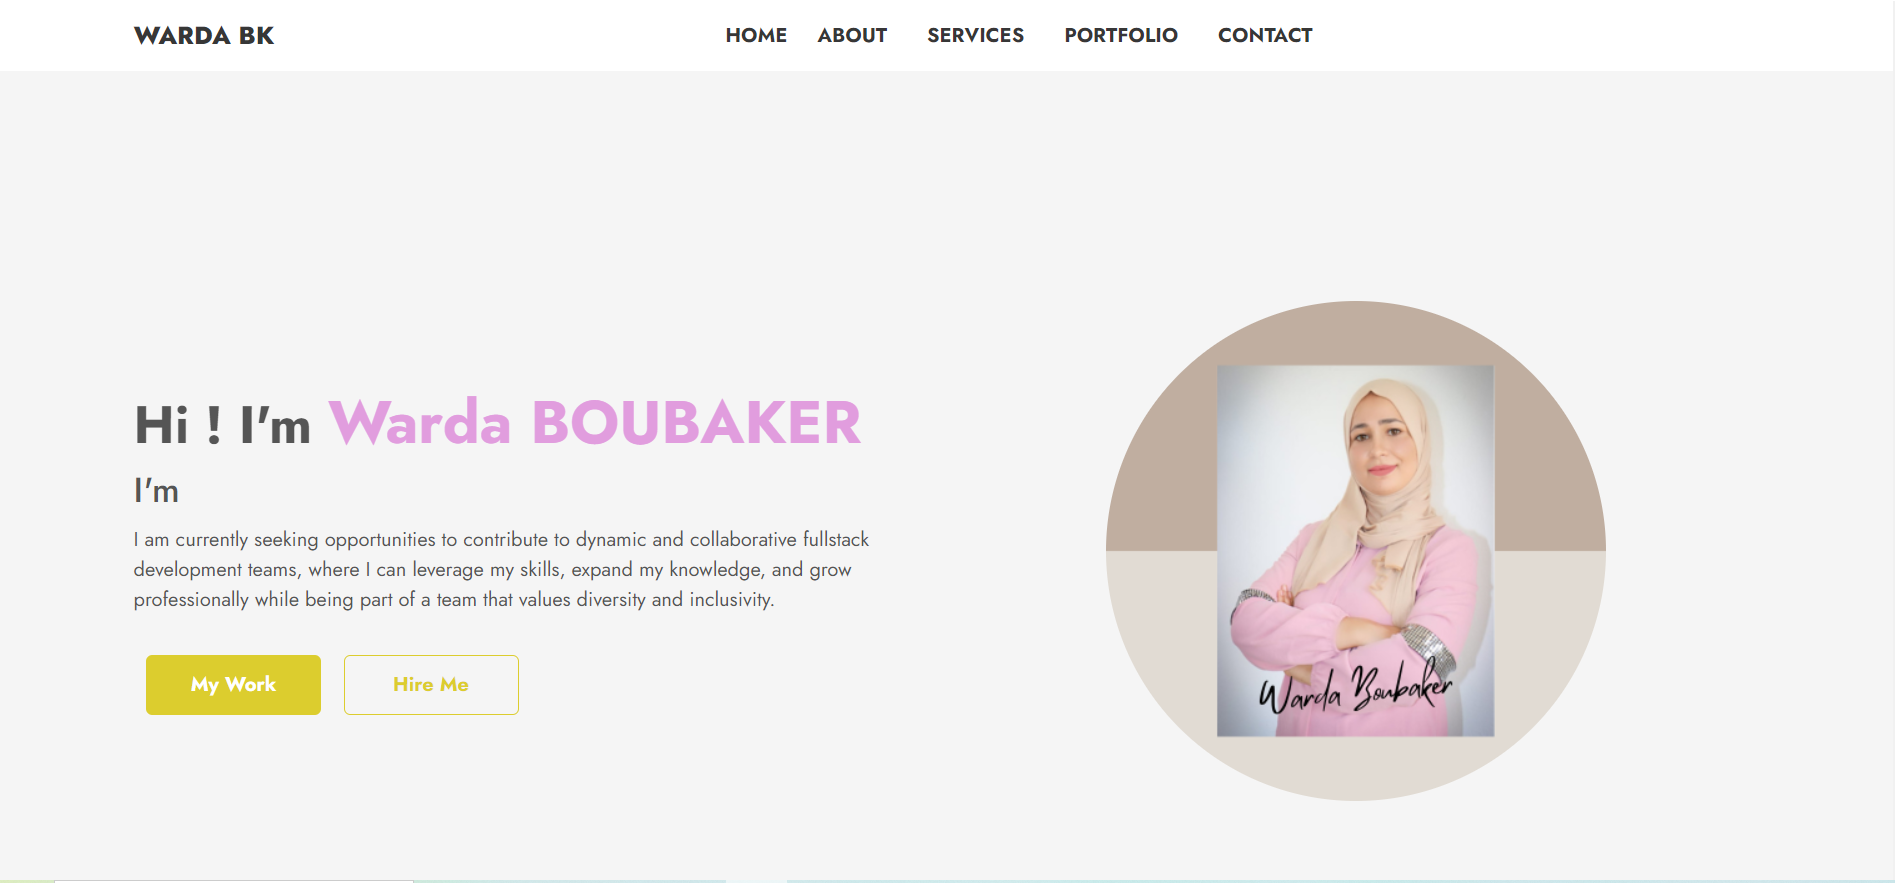
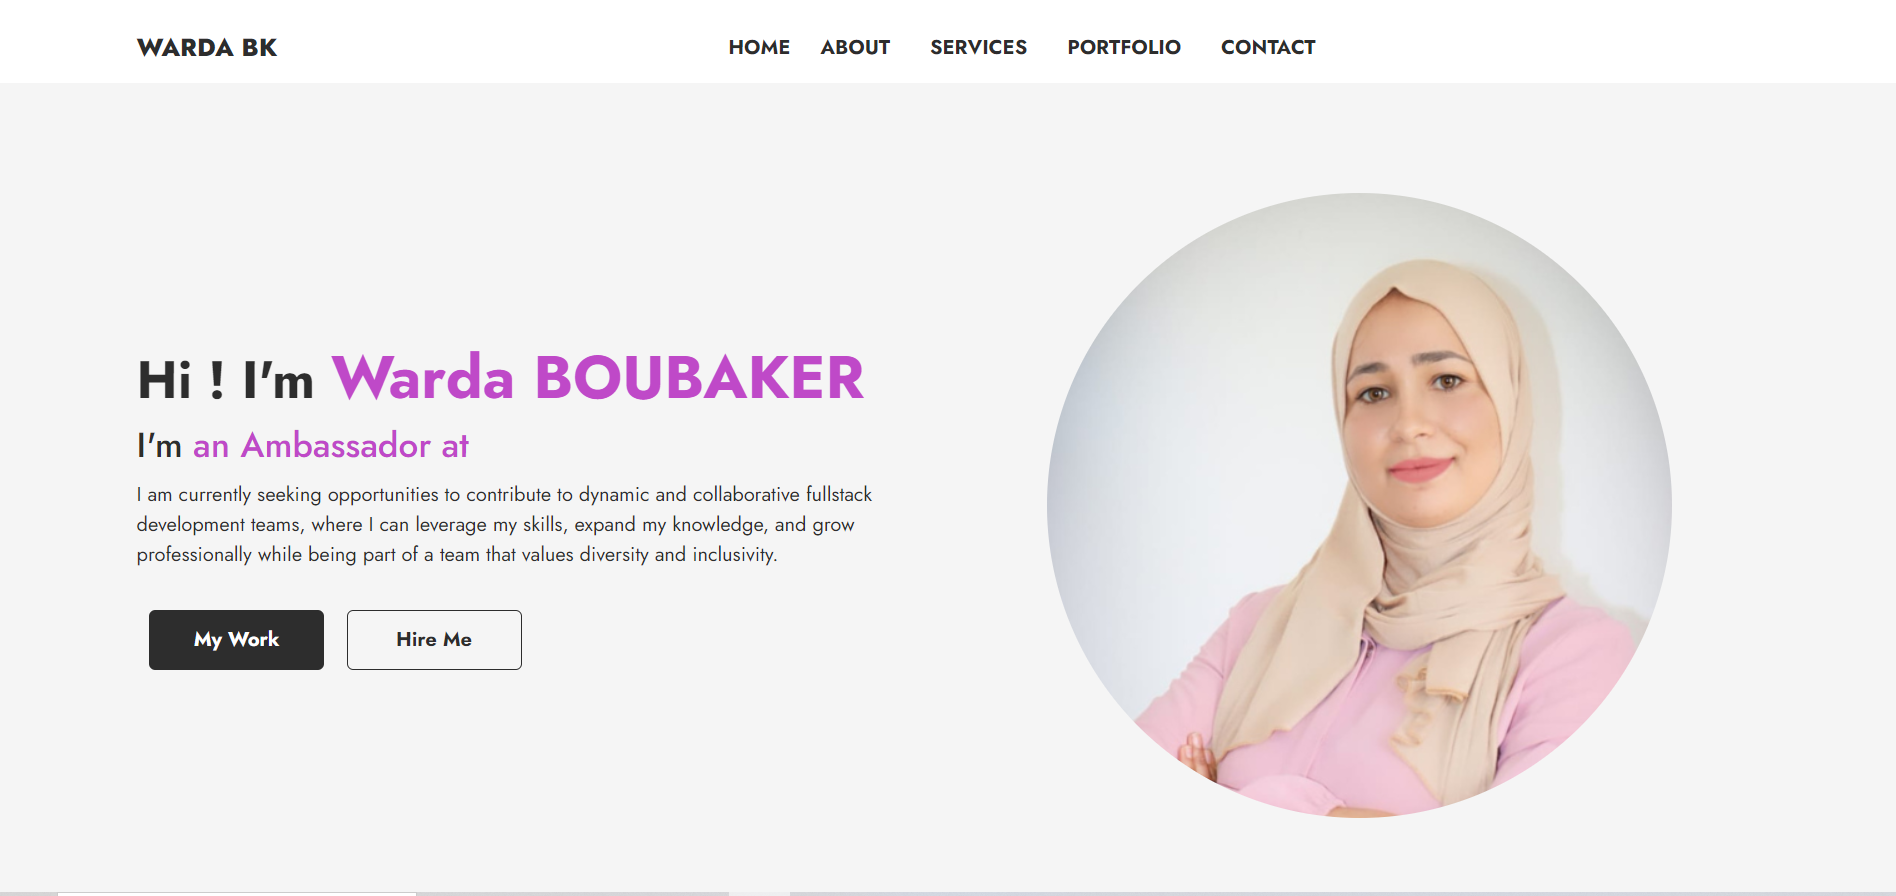
last update

diff --git a/css/style.css b/css/style.css
@@ -3,19 +3,11 @@
 @import url('https://fonts.googleapis.com/css2?family=Great+Vibes&family=Inknut+Antiqua:wght@300;400;500;600;700;800;900&display=swap');
 
 :root{
-    
-    --primary-color:#bf49c8;
-    --secondary-color:#e19dde;
+   --primary-color:#bf49c8;
    --dark-color:#2d2d2d;
-   --yellow-color:#DCCD2E;
-   --yellow-dark-color:#beaf0b;
-   --bg-color:whitesmoke;
    --white-color:white;
-   --darkmagenta-color:darkmagenta;
-   --pink-light-color:rgb(227, 187, 187);
-   --pink-dark-color:#d44bb4;
    --black-color:black;
-   --beige-color:rgb(249, 239, 239);
+  
 }
 
 *{
@@ -28,7 +20,7 @@
  font-family: "Jost", sans-serif;
  font-weight:400;
  color:var(--dark-color);
- background-color:var(--bg-color);
+ background-color:whitesmoke;
 
 }
 
@@ -71,7 +63,7 @@ nav .container .logo-name {
     font-weight:700;
   }
   .main .container .myName {
-    color:var(--secondary-color);
+    color:var(--primary-color);
   }
 
 
@@ -99,7 +91,7 @@ nav .container .logo-name {
         height: 3rem;
         width:8.75rem;
         margin: 0 10px;
-        background-color:var(--yellow-color);
+        background-color:var(--dark-color);
         color:var(--white-color);
         outline:none;
         border:none;
@@ -108,7 +100,9 @@ nav .container .logo-name {
        
     }
     .main .btn1:hover{
-        background-color:var(--yellow-dark-color);
+        background-color:var(--white-color);
+        border:1px solid var(--dark-color);
+        color:var(--dark-color);
         transition:0.5s;
     }
     /******button 2*******/
@@ -117,15 +111,15 @@ nav .container .logo-name {
         width: 8.75rem;
         margin: 0 10px;
         background-color:transparent;
-        color:var(--yellow-color);
+        color:var(--dark-color);
         outline:none;
-        border:1px solid var(--yellow-color);
+        border:1px solid var(--dark-color);
         font-weight:700;
         border-radius: 5px;
       
     }
     .main .btn2:hover{
-        background-color:var(--yellow-dark-color);
+        background-color:var(--dark-color);
         transition: 0.5s;
         color:var(--white-color);
         border:none;
@@ -138,9 +132,7 @@ nav .container .logo-name {
 
             
      /********section about *******/   
-     #about{
-      background-color:var(--beige-color);
-     }
+     
 
   .introduction .img-perso {
       transition: transform 0.3s ease;
@@ -160,7 +152,7 @@ nav .container .logo-name {
    html body h1 {
     font-style:3rem;
     font-weight:900;
-    color:var(--primary-color)
+    color:var(--dark-color)
    }
 
    .introduction .btn11 {
@@ -170,14 +162,14 @@ nav .container .logo-name {
     outline:none;
     border:none;
     color:var(--white-color);
-    background-color:var(--black-color);
+    background-color:var(--dark-color);
     border-radius: 5px;
     
    }
    .introduction .btn11:hover {
     background-color:transparent;
-    color:var(--black-color);
-    border: 1px solid var(--black-color);
+    color:var(--dark-color);
+    border: 1px solid var(--dark-color);
     transition: 0.5s;
    } 
 
@@ -186,14 +178,14 @@ nav .container .logo-name {
     width:8.75rem;
     outline:none;
     border:none;
-    color:var(--black-color);
-    border: 1px solid var(--black-color);
+    color:var(--dark-color);
+    border: 1px solid var(--dark-color);
     background-color:transparent;
     border-radius: 5px;
   
    }
    .introduction .btn22:hover {
-    background-color:var(--black-color);
+    background-color:var(--dark-color);
     color:var(--white-color);
     border:none;
     transition: 0.5s;
@@ -252,9 +244,7 @@ nav .container .logo-name {
 
 
 /*********portfolio*************/
-#portfolio{
-    background-color:var(--beige-color);
-   }
+
  
 .portfolio .item:before{
  
@@ -287,9 +277,9 @@ nav .container .logo-name {
   border-radius: 5px;
 }
 .portfolio .btn-pro:hover{
-  background:var(--white-color);
+  background:var(--bg-color);
   color:var(--primary-color);
-   border:1px solid var(--pink-dark-color);
+   border:1px solid var(--primary-color);
    font-weight: 500;
    transition:0.4s;
 
@@ -300,7 +290,7 @@ nav .container .logo-name {
 
  /****** button 3 *******/
  .contact .btn3{
-  background-color:var(--yellow-dark-color);
+  background-color:var(--dark-color);
   color: var(--white-color);
   outline: none;
   border:none;
@@ -310,8 +300,8 @@ nav .container .logo-name {
 }
 .btn3:hover{
   background: var(--white-color);
-  color:var(--primary-color);
-   border:1px solid var(--pink-dark-color);
+  color:var(--dark-color);
+   border:1px solid var(--dark-color);
    font-weight: 500;
    transition:0.4s;
 
@@ -322,8 +312,8 @@ nav .container .logo-name {
 .contact .circle{
   height:4.4rem ;
   width:4.4rem;
-  background-color:var(--pink-light-color);
-  color:var(--black-color);
+  background-color:var(--primary-color);
+  color:var(--white-color);
   font-size: 1.8rem;
   padding: 0.75rem;
   border-radius: 50%;
@@ -339,27 +329,23 @@ nav .container .logo-name {
      /******* Le footer *******/
 
  footer {
-    background-color:var(--pink-light-color);
-    color:var(--dark-color);
-    font-weight: bold;
+    background-color:var(--dark-color);
+    color:var(--white-color);
+    font-weight:400;
 }
-footer .pied-name {
-  font-weight: 900;
-  color:var(--darkmagenta-color);
-}
+
 
 footer .icons-footer a {
 padding: 0 1rem;
-background-color:var(--pink-light-color);
-color:var(--black-color);
+background-color:var(--dark-color);
+color:var(--white-color);
 font-size: 1.8rem;
-border-radius: 50%;
 display: inline-block;
 margin-bottom: 1rem;
 }
 footer .icons-footer a:hover{
   background-color:transparent;
-  color:var(--darkmagenta-color);
+  color:var(--primary-color);
   transition: 0.4s;
   
 }

diff --git a/index.html b/index.html
@@ -69,7 +69,7 @@
 
               </div>  
               <div class="col-12 col-md-6 py-5 text-center home-img ">
-                <img alt="myPhoto" src="./img/wardabk.png" class="image-fluid "/>
+                <img alt="myPhoto" src="./img/warda.png" class="image-fluid "/>
               </div> 
           </div>
         </div>   
@@ -85,7 +85,7 @@
         <h1 class="text-center pb-5">About Me</h1>
         <div class="row">
           <div class="col-12 col-md-6 mb-4 mb-md-0">
-            <img src="./img/myphoto-canva.png" class="img-fluid w-100 rounded  img-perso " alt="">
+            <img src="./img/warda.png" class="img-fluid w-100 rounded  img-perso " alt="">
           </div>
           <div class="col cursus col-12 col-md-6 d-flex flex-column">
            
